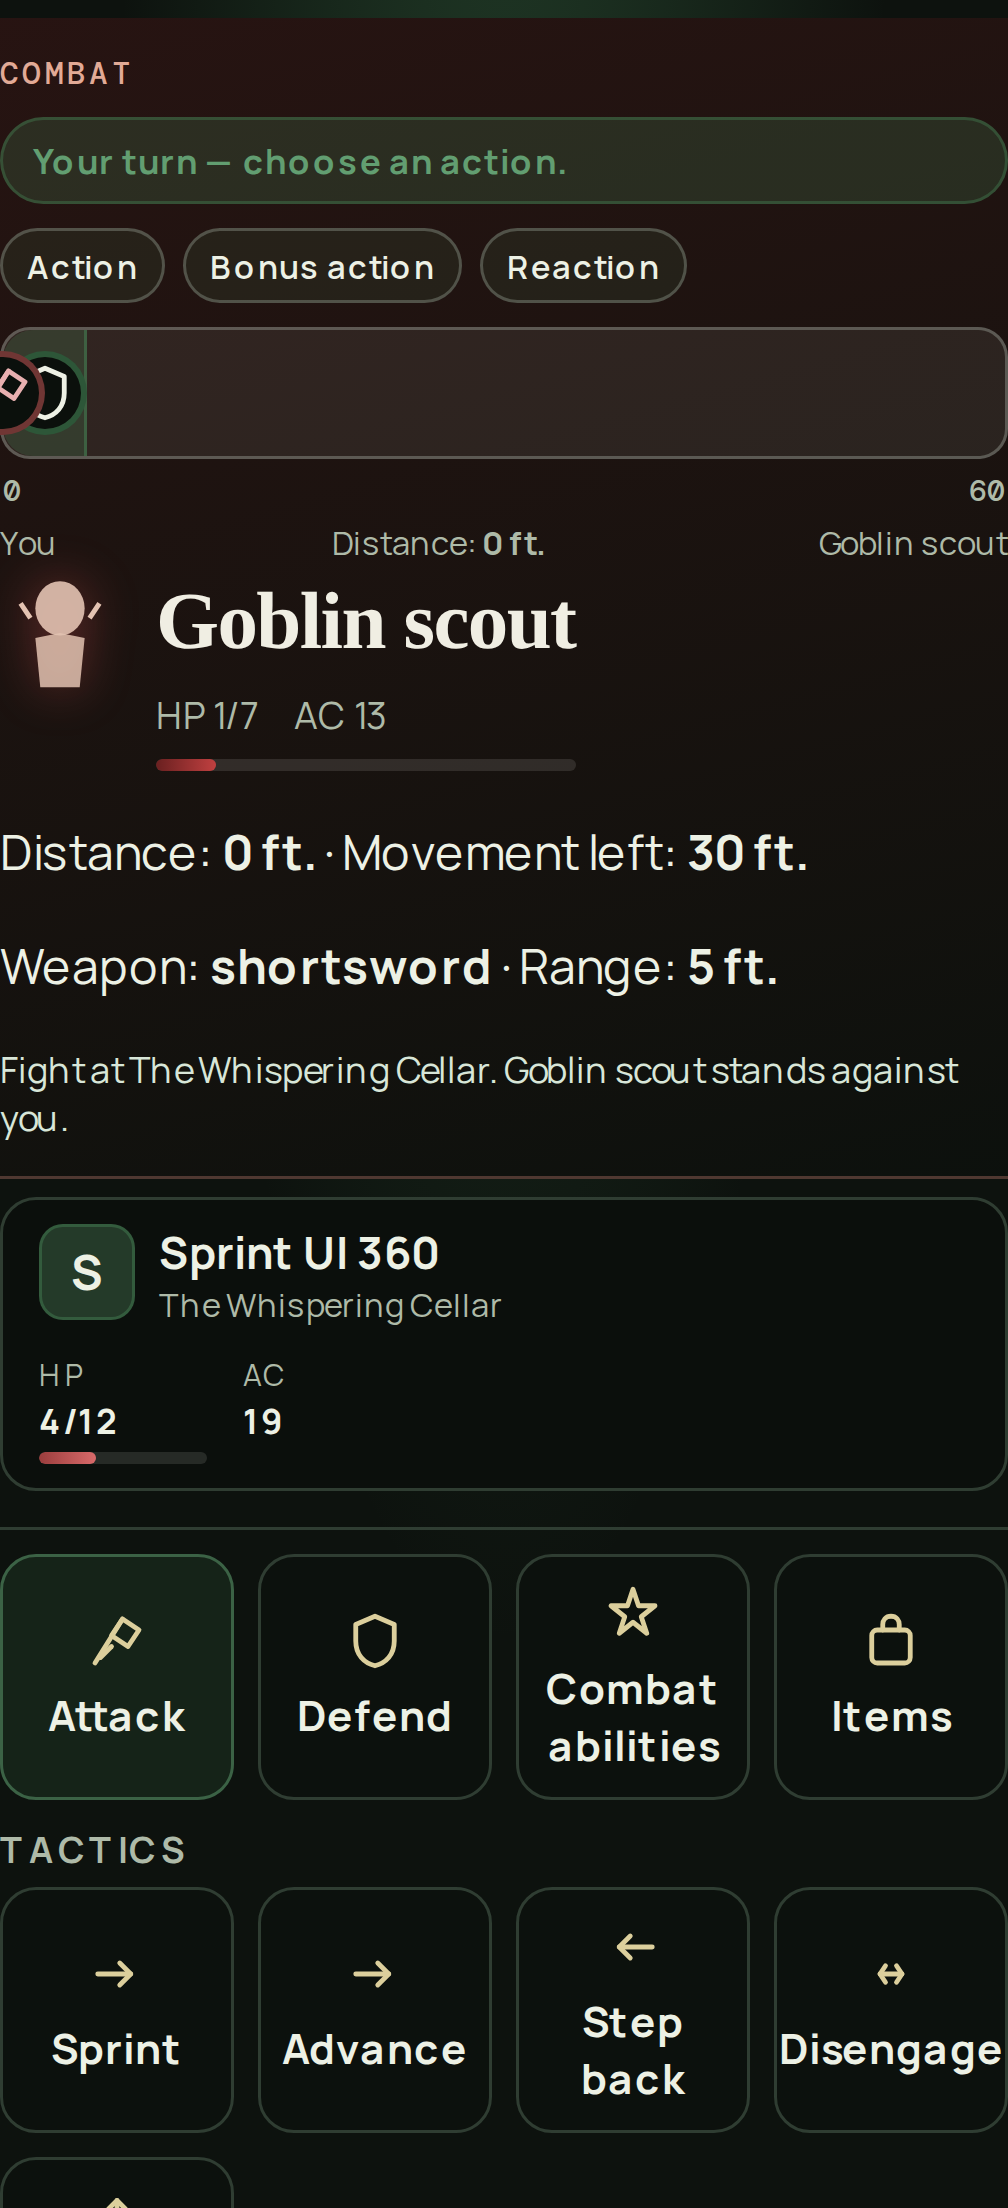
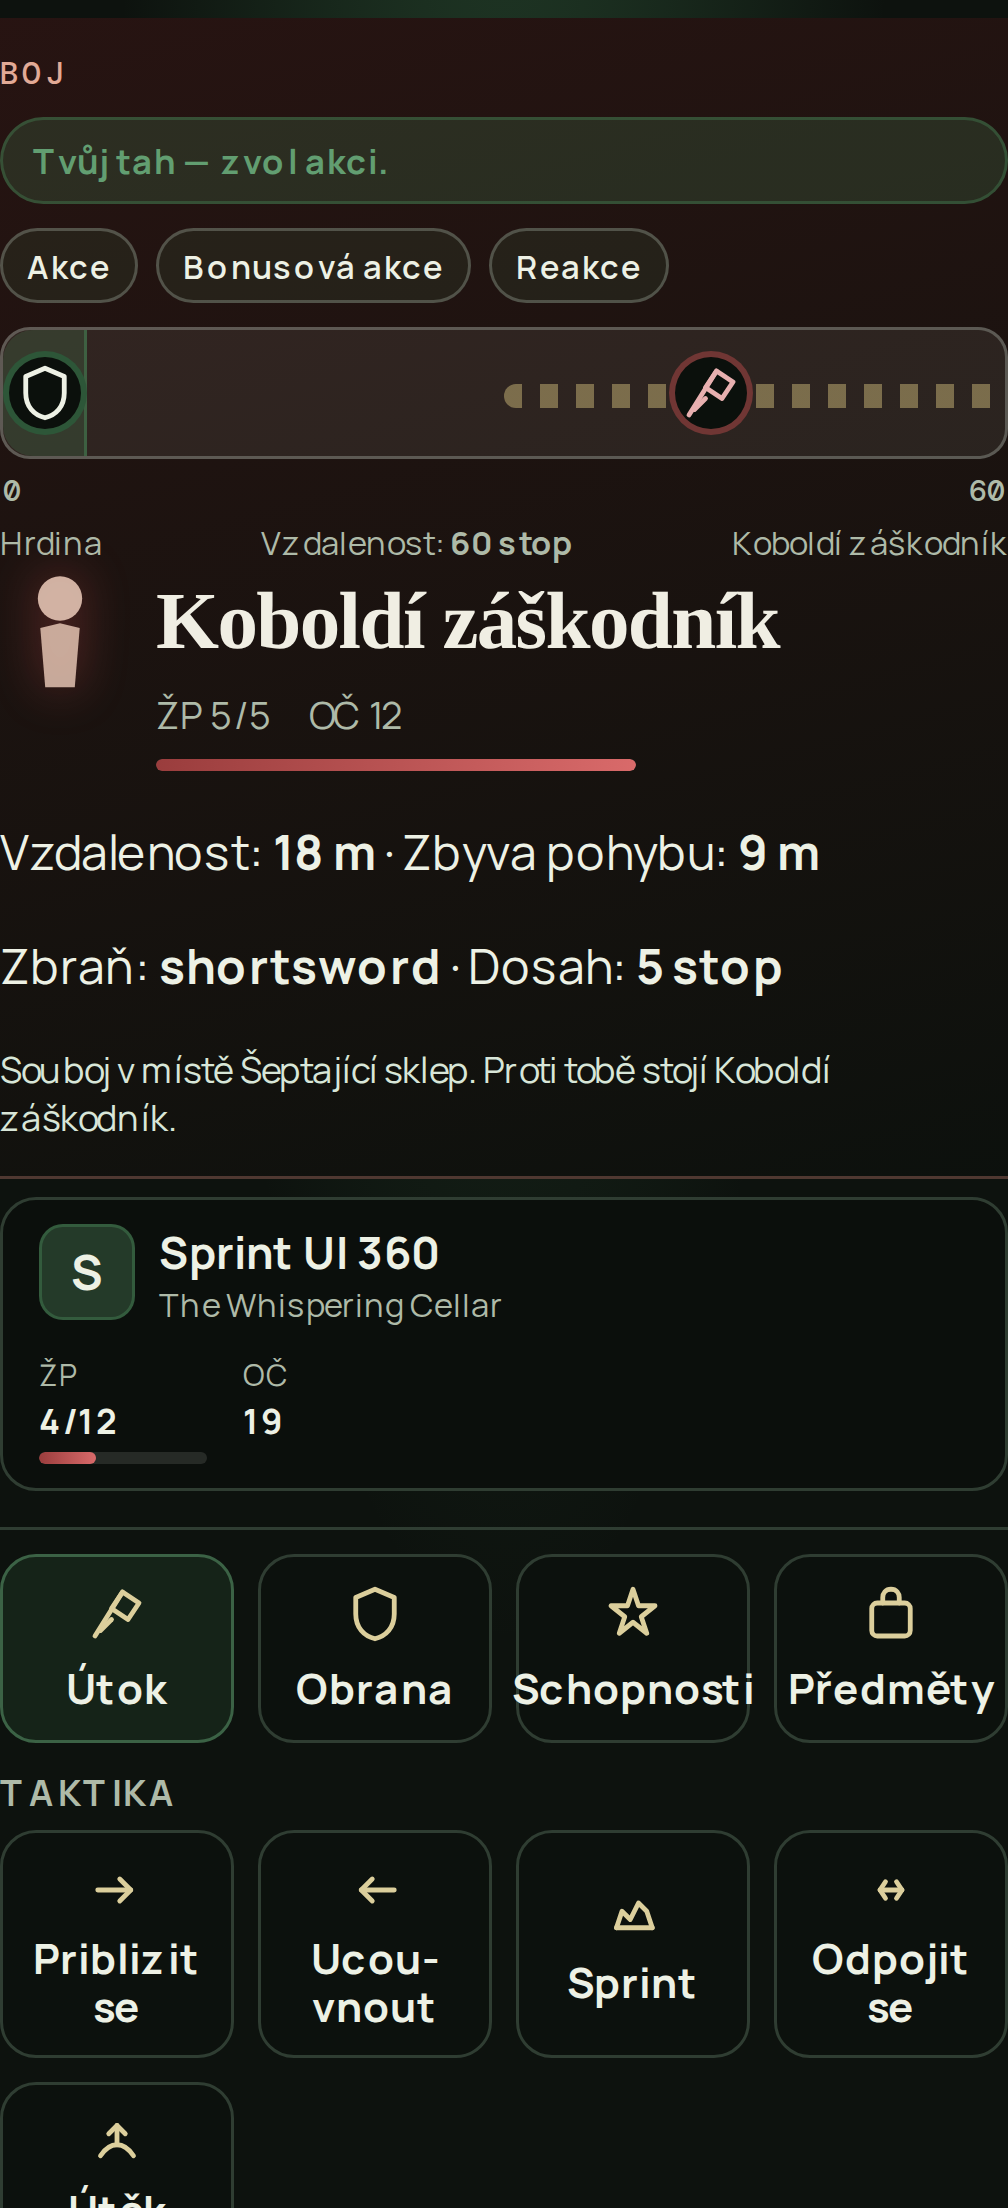
fix(combat): Sprint zamítnutí přes action_rejected + merge b591df2
Sprint/dash před _finish_paralyzed v class feature; combat_action_denied
u sprintu; pytest journal; cs screenshot harness.

diff --git a/frontend/e2e/combat-sprint-screenshots.spec.ts b/frontend/e2e/combat-sprint-screenshots.spec.ts
@@ -1,8 +1,8 @@
-import { expect, test } from '@playwright/test';
+import { expect, test, type Page } from '@playwright/test';
 import { mkdirSync } from 'node:fs';
 import { dirname, resolve } from 'node:path';
 import { fileURLToPath } from 'node:url';
-import { startCellarCombat } from './chapter-one-e2e-helpers.ts';
+import { startCellarCombat, syncPlayScreen } from './chapter-one-e2e-helpers.ts';
 import {
   apiTelegramToken,
   HOME_HEADING,
@@ -23,17 +23,62 @@ function csInitData(telegramId: number) {
   return signedTelegramInitData(telegramId, { language_code: 'cs' });
 }
 
+function patchKoboldAt18m(characterId: string, page: Page) {
+  return page.route(new RegExp(`/characters/${characterId}(\\?|$)`), async route => {
+    if (route.request().method() !== 'GET') {
+      await route.continue();
+      return;
+    }
+    const upstream = await route.fetch();
+    const body = await upstream.json() as Record<string, unknown>;
+    const tactics = (body.combat_tactics as Record<string, unknown> | undefined) ?? {};
+    body.combat_distance_ft = 60;
+    body.combat_tactics = {
+      ...tactics,
+      distance_ft: 60,
+      movement_remaining_ft: tactics.movement_remaining_ft ?? 30,
+      speed_ft: tactics.speed_ft ?? 30,
+      weapon_range: tactics.weapon_range ?? {
+        can_attack: false,
+        normal_ft: 5,
+        long_ft: 0,
+        weapon_key: 'longsword',
+        denial: 'Out of weapon reach.',
+      },
+    };
+    body.combatant = {
+      ...(body.combatant as Record<string, unknown> | undefined),
+      name: 'Kobold skirmisher',
+      hp: 5,
+      max_hp: 5,
+      armor_class: 12,
+    };
+    body.in_combat = true;
+    body.combat_turn = 'player';
+    await route.fulfill({
+      status: upstream.status(),
+      headers: upstream.headers(),
+      contentType: 'application/json',
+      body: JSON.stringify(body),
+    });
+  });
+}
+
 for (const width of WIDTHS) {
   test(`combat sprint panel ${width}px (cs, 18 m)`, async ({ page, request }, testInfo) => {
     test.setTimeout(180_000);
     mkdirSync(OUT, { recursive: true });
     const telegramId = E2E_TELEGRAM_ID.classIdentity + 10_000 + width;
     const initData = csInitData(telegramId);
-    await page.addInitScript(() => {
-      localStorage.setItem('app_locale', 'cs');
-    });
     await page.setViewportSize({ width, height: 820 });
     await mockTelegramWebApp(page, initData);
+    await page.addInitScript(() => {
+      try {
+        localStorage.setItem('app_locale', 'cs');
+      } catch {
+        /* ignore */
+      }
+    });
     const token = await apiTelegramToken(request, initData);
 
     const response = await request.post(`${API}/characters`, {
@@ -49,10 +94,13 @@ for (const width of WIDTHS) {
     const fighter = await response.json() as { id: string };
 
     await startCellarCombat(request, token, fighter.id, 'goblin scout');
+    await patchKoboldAt18m(fighter.id, page);
+
     await page.goto('/');
     await expect(page.getByRole('heading', { name: HOME_HEADING })).toBeVisible({ timeout: 25_000 });
     await page.getByRole('button', { name: /continue adventure|pokračovat/i }).click();
     await waitForGameScreenIdle(page);
+    await syncPlayScreen(page);
 
     const combat = page.locator('.combat-screen.combat-v2');
     await expect(combat).toBeVisible({ timeout: 30_000 });
@@ -64,9 +112,15 @@ for (const width of WIDTHS) {
     if (width === 320) {
       const disengage = page.locator('[data-combat-action-id="disengage"]');
       await expect(disengage).toBeVisible();
-      const labelWidth = await disengage.locator('.combat-action-label').evaluate(el => el.scrollWidth);
-      const cardInnerWidth = await disengage.evaluate(el => el.clientWidth - 8);
-      expect(labelWidth).toBeLessThanOrEqual(cardInnerWidth);
+      const labelFits = await disengage.evaluate(btn => {
+        const label = btn.querySelector('.combat-action-label');
+        if (!label) return false;
+        const pad = 4;
+        const btnRect = btn.getBoundingClientRect();
+        const labelRect = label.getBoundingClientRect();
+        return labelRect.right <= btnRect.right - pad && labelRect.left >= btnRect.left + pad;
+      });
+      expect(labelFits).toBe(true);
     }
 
     const outfile = `${OUT}/combat-sprint-tactics-${width}px.png`;

diff --git a/frontend/src/combat/combatActions.test.ts b/frontend/src/combat/combatActions.test.ts
@@ -167,6 +167,7 @@ describe('combatActions', () => {
     expect(deck.paralyzedTurn?.continue.label).toBe('Continue');
     expect(deck.paralyzedTurn?.continue.action).toBe('end turn');
     expect(deck.paralyzedTurn?.continue.disabled).toBe(false);
+    expect(deck.tactics.some(a => a.id === 'sprint')).toBe(false);
   });
 
   it('Czech paralyzed turn copy', () => {

diff --git a/app/engine/service.py b/app/engine/service.py
@@ -1078,16 +1078,13 @@ class GameEngine:
         from .class_features import use_dash_action
 
         if not character.in_combat or monster is None:
-            return (
-                TurnResult(action, ["You can only Dash during a fight."], False, costs_adventure_mana=False),
-                monster,
-            )
+            return combat_action_denied(action, "You can only Dash during a fight."), monster
         blocked = self._require_player_combat_turn(character, action)
         if blocked:
             return blocked, monster
         blocked_turn = self._begin_player_combat_action(character, action)[1]
         if blocked_turn:
-            return self._finish_paralyzed_player_turn(character, action, monster)
+            return blocked_turn, monster
 
         ok, lines, class_facts = use_dash_action(character)
         if ok:
@@ -1095,7 +1092,7 @@ class GameEngine:
                 TurnResult(action, lines, True, class_facts=class_facts, costs_adventure_mana=False),
                 monster,
             )
-        return TurnResult(action, lines, False, costs_adventure_mana=False), monster
+        return combat_action_denied(action, lines), monster
 
     def _resolve_dash(
         self,
@@ -1107,10 +1104,7 @@ class GameEngine:
         from .combat_action_economy import FLAG_ACTION_USED, FLAG_BONUS_USED, _flag
 
         if not character.in_combat or monster is None:
-            return (
-                TurnResult(action, ["You can only Dash during a fight."], False, costs_adventure_mana=False),
-                monster,
-            )
+            return combat_action_denied(action, "You can only Dash during a fight."), monster
 
         if character.character_class == "rogue" and character.level >= 2 and not _flag(character, FLAG_BONUS_USED):
             ok, lines, class_facts = use_cunning_dash(character)
@@ -1120,14 +1114,14 @@ class GameEngine:
                     monster,
                 )
             if _flag(character, FLAG_ACTION_USED):
-                return TurnResult(action, lines, False, costs_adventure_mana=False), monster
+                return combat_action_denied(action, lines), monster
 
         blocked = self._require_player_combat_turn(character, action)
         if blocked:
             return blocked, monster
         blocked_turn = self._begin_player_combat_action(character, action)[1]
         if blocked_turn:
-            return self._finish_paralyzed_player_turn(character, action, monster)
+            return blocked_turn, monster
 
         ok, lines, class_facts = use_dash_action(character)
         if ok:
@@ -1135,7 +1129,7 @@ class GameEngine:
                 TurnResult(action, lines, True, class_facts=class_facts, costs_adventure_mana=False),
                 monster,
             )
-        return TurnResult(action, lines, False, costs_adventure_mana=False), monster
+        return combat_action_denied(action, lines), monster
 
     def _resolve_combat_move(
         self,
@@ -2277,6 +2271,11 @@ class GameEngine:
         )
 
         text = action.casefold()
+        if feature == "dash_action" or SPRINT_COMBAT_PATTERN.search(text):
+            return self._resolve_sprint(character, action, monster)
+        if feature == "cunning_dash" or DASH_COMBAT_PATTERN.search(text):
+            return self._resolve_dash(character, action, monster)
+
         if monster and character.in_combat:
             blocked = self._require_player_combat_turn(character, action)
             if blocked:
@@ -2308,12 +2307,6 @@ class GameEngine:
             changed = ok
             if ok:
                 return TurnResult(action, events, changed, class_facts=class_facts, costs_adventure_mana=False), monster
-
-        if feature == "dash_action" or SPRINT_COMBAT_PATTERN.search(text):
-            return self._resolve_sprint(character, action, monster)
-
-        if feature == "cunning_dash" or DASH_COMBAT_PATTERN.search(text):
-            return self._resolve_dash(character, action, monster)
 
         channel_feature = feature in ("preserve_life", "turn_undead") or (
             PRESERVE_LIFE_PATTERN.search(text) and feature != "turn_undead"

diff --git a/tests/test_combat_sprint.py b/tests/test_combat_sprint.py
@@ -224,6 +224,27 @@ def test_rogue_bonus_dash_api(setup_db):
     assert not body["character"]["combat_flags"].get("action_used")
 
 
+def test_sprint_denial_sets_action_rejected():
+    game = GameEngine(random.Random(14))
+    hero, monster = _combat_hero(game, "fighter")
+    spend_action(hero)
+    result, _ = game.resolve_action(hero, "sprint", monster)
+    assert not result.state_changed
+    assert result.action_rejected
+
+    hero2, monster2 = _combat_hero(game, "fighter")
+    hero2.in_combat = False
+    result2, _ = game.resolve_action(hero2, "sprint", monster2)
+    assert result2.action_rejected
+
+    game3 = GameEngine(random.Random(15))
+    hero3, monster3 = _combat_hero(game3, "fighter")
+    hero3.conditions = [{"condition_id": "paralyzed", "source_id": "ghoul"}]
+    result3, _ = game3.resolve_action(hero3, "sprint", monster3)
+    assert result3.action_rejected
+    assert not hero3.combat_flags.get("action_used")
+
+
 def test_cunning_dash_still_bonus_only_for_rogue():
     game = GameEngine(random.Random(12))
     hero = create_hero("fighter")

diff --git a/tests/test_combat_p1d_denied_no_journal.py b/tests/test_combat_p1d_denied_no_journal.py
@@ -161,6 +161,26 @@ def test_denied_combat_actions_do_not_journal_or_increment_turn_count(api_db):
     turns = asyncio.run(_turn_count(character_id))
     _assert_denial_persisted(headers, character_id, "flee", events_before=events, turns_before=turns)
 
+    def sprint_setup(hero):
+        _combat_seed(hero)
+        spend_action(hero)
+
+    _seed_hero(character_id, sprint_setup)
+    events = asyncio.run(_count_events(character_id))
+    turns = asyncio.run(_turn_count(character_id))
+    _assert_denial_persisted(headers, character_id, "sprint", events_before=events, turns_before=turns)
+
+    _seed_hero(
+        character_id,
+        lambda h: (
+            setattr(h, "in_combat", False),
+            setattr(h, "combat_turn", "player"),
+        ),
+    )
+    events = asyncio.run(_count_events(character_id))
+    turns = asyncio.run(_turn_count(character_id))
+    _assert_denial_persisted(headers, character_id, "sprint", events_before=events, turns_before=turns)
+
 
 @pytest.mark.integration
 def test_non_combat_no_state_change_still_journals(api_db):
